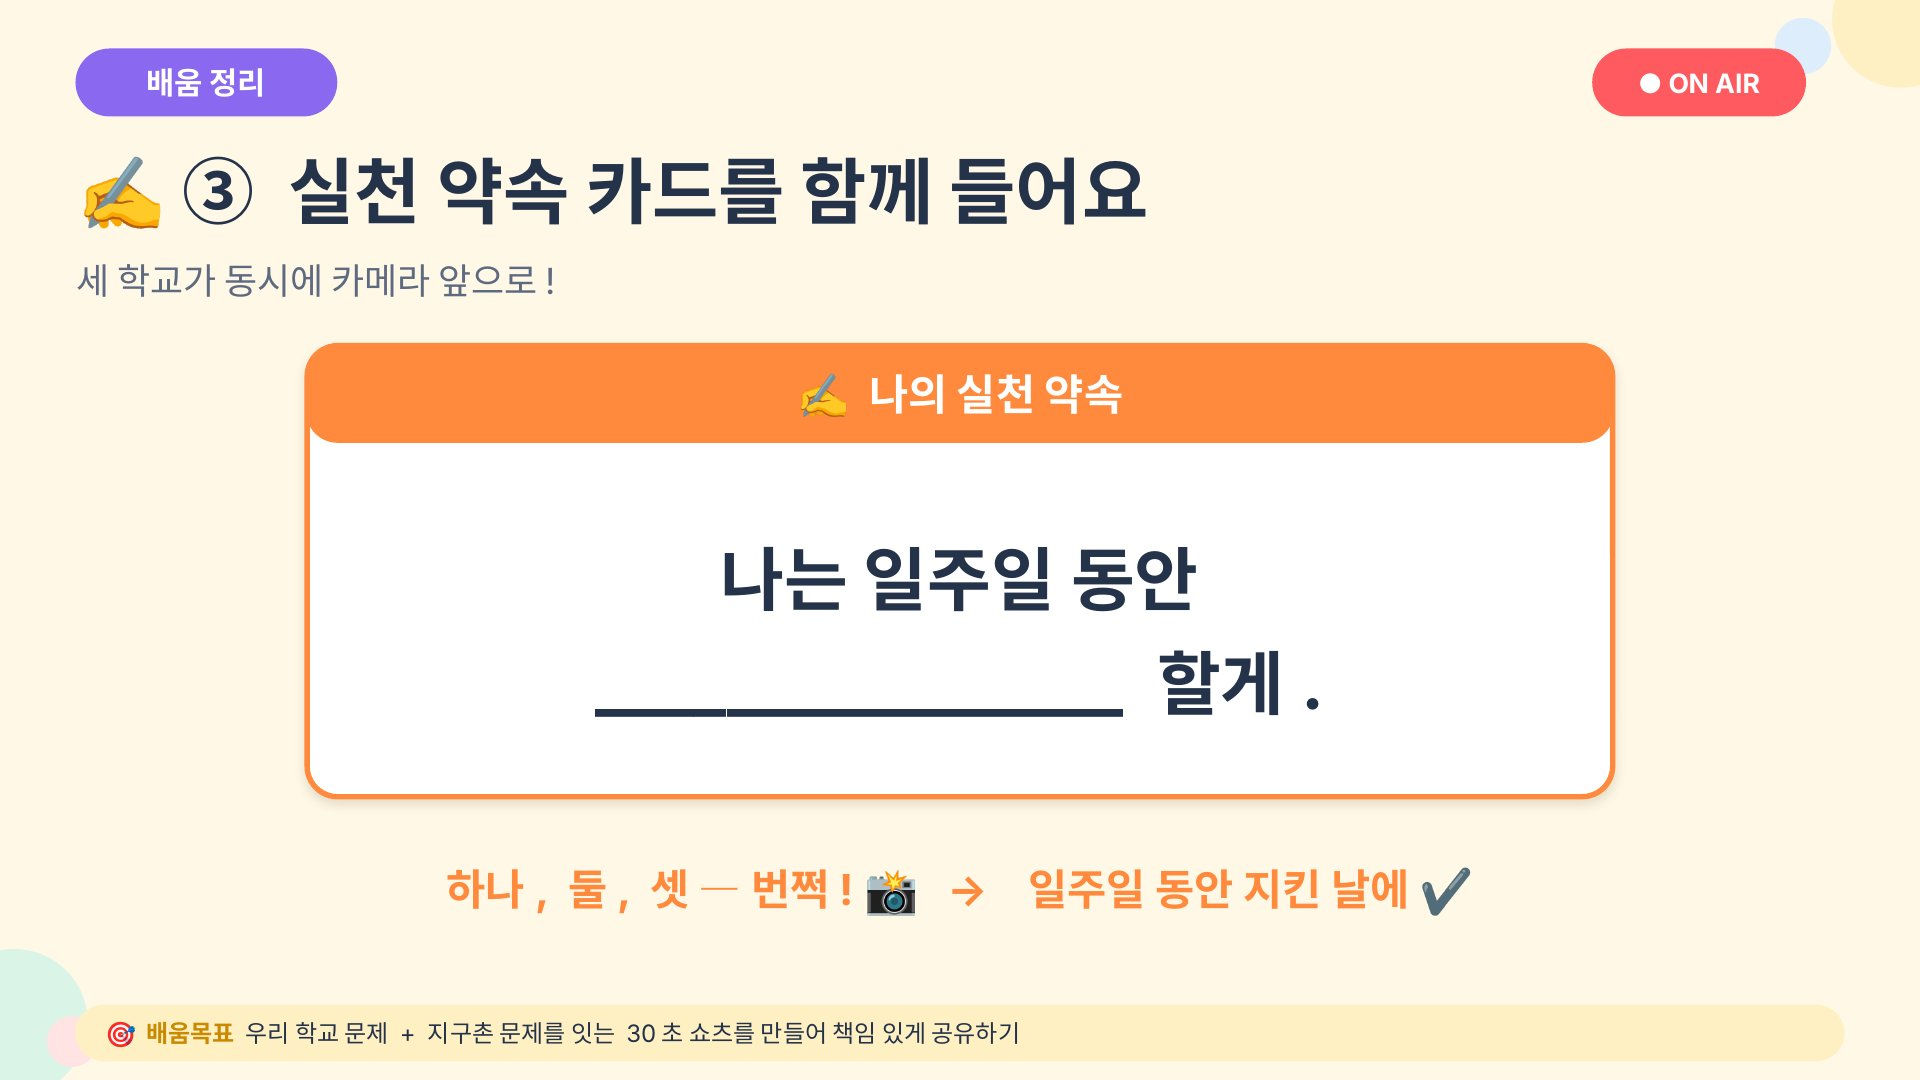
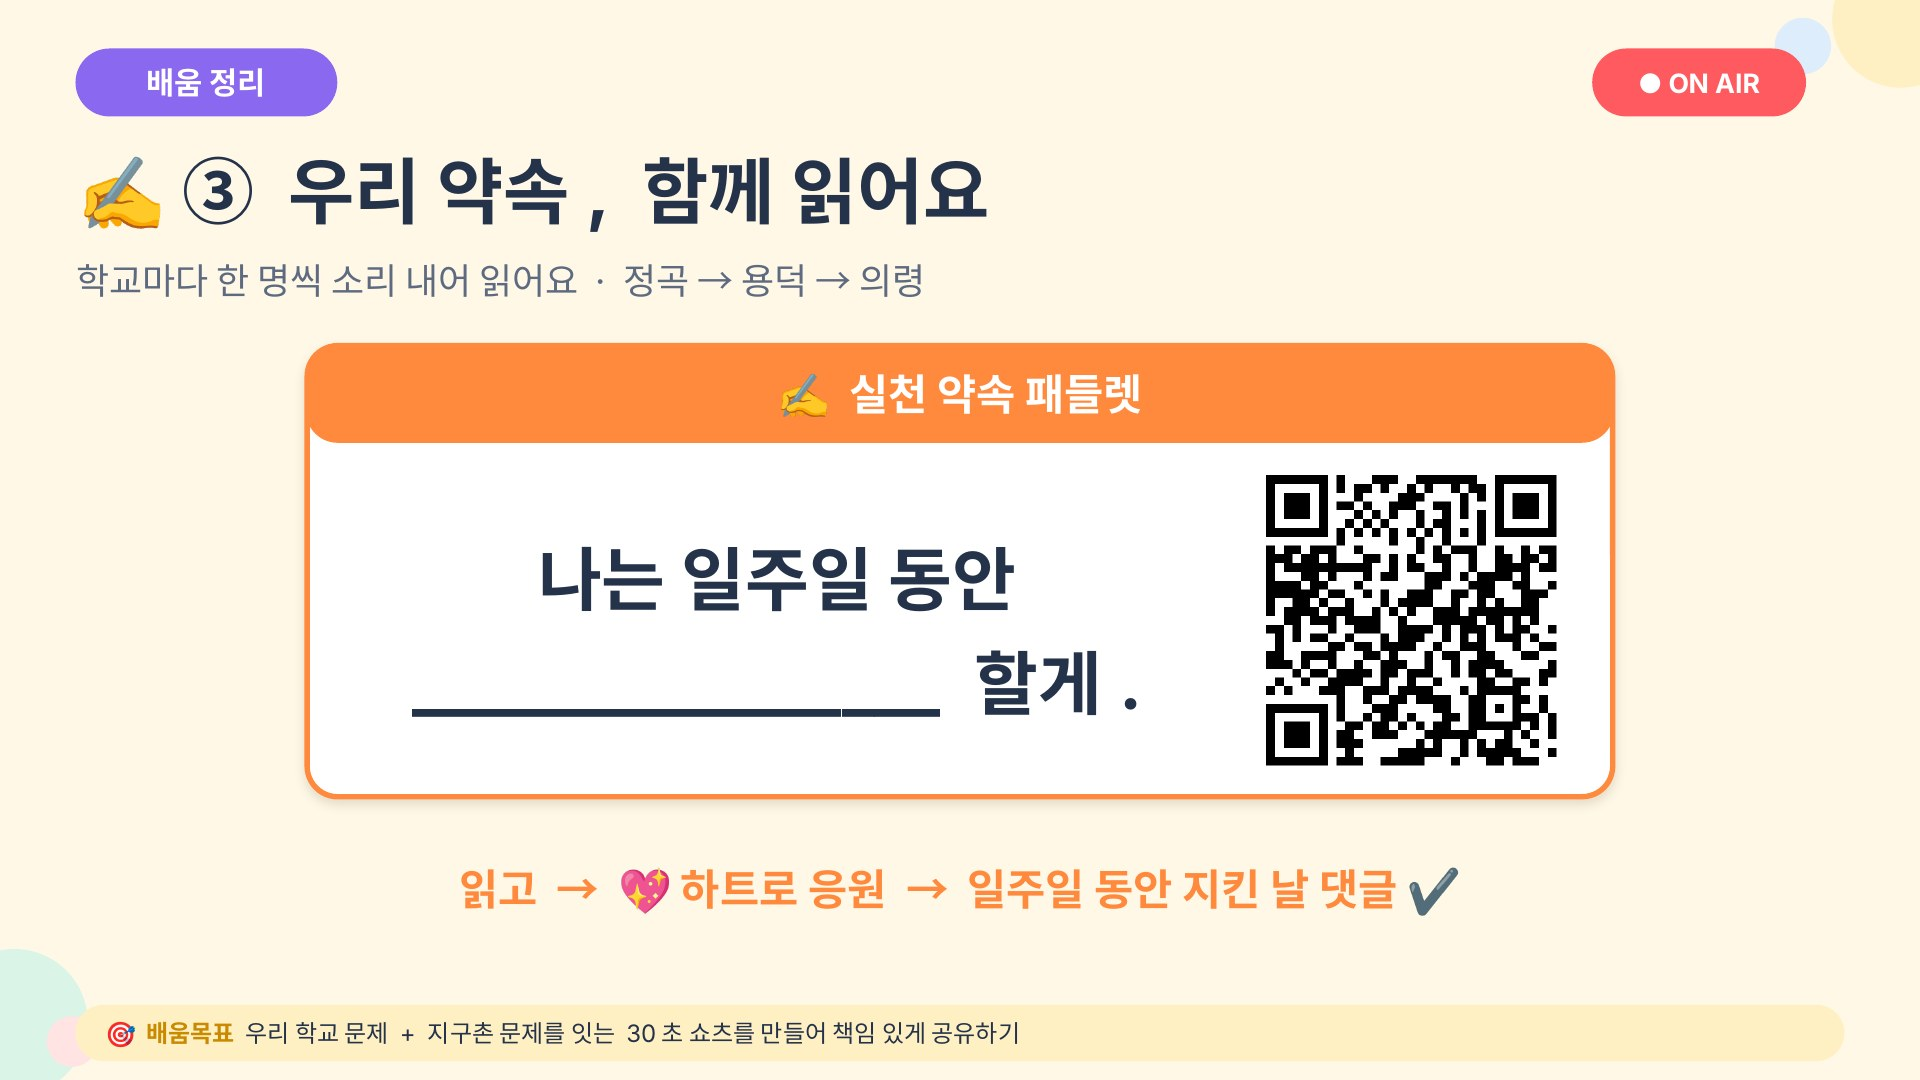
실천 약속을 종이 카드 대신 패들렛에: 팀 화면 버튼·알림 문구·슬라이드 6/17/24
Claude-Session: https://claude.ai/code/session_018Lxeety4LSYkDF5c1ZaQEU

diff --git a/js/team.js b/js/team.js
@@ -164,6 +164,7 @@ const VIEWS = {
         ${received.length ? `<h3>🔔 받은 알림</h3><div class="m-alerts">${received.slice(-3).reverse().map((a) => `<div>${esc(a.icon)} ${esc(a.msg)}</div>`).join('')}</div>` : ''}
       </section><section class="m-card"><h3>🎬 컷 진행</h3>
         ${L.cuts.map((c) => `<button class="check ${d.progress?.[c.id] ? 'on' : ''}" data-act="cut" data-k="${c.id}">${esc(c.name)}<small>${esc(c.sec)}</small></button>`).join('')}
+        <a class="btn promgo" href="${esc(L.promisePadlet)}" target="_blank" rel="noopener">${esc(L.promiseGo)}</a>
         <button class="check ${d.promise ? 'on' : ''}" data-act="promise">${esc(L.promiseCheck)}</button>
         ${me.canva ? `<a class="btn canvab" href="${esc(me.canva)}" target="_blank" rel="noopener">🎨 우리 팀 캔바 양식 열기</a>` : ''}
         ${videoButton(d, c)}
@@ -195,7 +196,7 @@ const VIEWS = {
       ${v >= L.gauge.goal ? `<p class="m-cele">${esc(v >= L.gauge.max ? L.gauge.celebrate100 : L.gauge.celebrate80)}</p>` : ''}`;
     const body = {
       views: `<h2>${esc(R.question)}</h2><div class="m-ans">${R.answers.map((a) => `<span>${esc(a)}</span>`).join('')}</div><p class="m-problem">${esc(R.sentence)}</p>`,
-      promise: `<h2>✍ ${esc(R.promise.title)}</h2><p class="m-wait">“${esc(R.promise.card)}”</p><p class="m-problem">${esc(R.promise.note)}</p>`,
+      promise: `<h2>✍ ${esc(R.promise.title)}</h2><p class="m-wait">“${esc(R.promise.card)}”</p><p class="m-problem">${esc(R.promise.note)}</p><a class="btn promgo" href="${esc(L.promisePadlet)}" target="_blank" rel="noopener">${esc(L.promiseGo)}</a>`,
       stars: `<h2>⭐ ${esc(R.stars.title)}</h2><p class="m-problem">${esc(R.stars.how)}</p><div class="m-ans col">${R.stars.items.map((a) => `<span>${esc(a)}</span>`).join('')}</div>`,
       gauge,
       next: `<h2>${esc(R.next.title)}</h2><p class="m-wait">${esc(R.next.text)}</p>`,

diff --git a/js/teacher.js b/js/teacher.js
@@ -372,7 +372,7 @@ function renderTeams() {
       <header><span class="no" style="background:${t.color}">${t.goal}</span><div><b>${esc(t.name)}</b><small>${esc(t.school)} · ${esc(t.goalName)}</small></div><span class="dot ${on ? 'on' : ''}" title="${on ? '접속 중' : '접속 안 됨'}"></span></header>
       <div class="hook">${d.hook ? `“${esc(d.hook)}”` : '<span class="muted">훅 고르는 중</span>'}</div>
       <div class="cutline">재료 ${prep}/${L.prepChecklist.length} · 컷 ${cuts}</div>
-      <div class="cutline">🖐 ${d.severity?.before ?? '–'} → ${d.severity?.after ?? '–'}${d.promise ? ' · ✍ 약속 카드' : ''}</div>
+      <div class="cutline">🖐 ${d.severity?.before ?? '–'} → ${d.severity?.after ?? '–'}${d.promise ? ' · ✍ 약속' : ''}</div>
       ${d.uploaded ? '<div class="up">📤 업로드 완료</div>' : ''}
       ${d.video ? `<div class="vrow ${videoOk(t.id) ? 'ok' : ''}"><span>🎬 ${videoOk(t.id) ? '승인됨' : '확인 필요'}</span><button class="btn sm ${videoOk(t.id) ? '' : 'cue'}" data-preview="${t.id}">${videoOk(t.id) ? '📤 받기 · 보기' : '▶ 보고 승인'}</button></div>` : ''}
       ${d.ng ? `<div class="vrow ${videoOk(t.id, 'ng') ? 'ok' : ''}"><span>${esc(L.video.ng.teacher)} ${videoOk(t.id, 'ng') ? '승인됨' : '확인 필요'}</span><button class="btn sm ${videoOk(t.id, 'ng') ? '' : 'cue'}" data-preview="${t.id}" data-kind="ng">▶ 보고 승인</button></div>` : ''}

diff --git a/css/app.css b/css/app.css
@@ -554,3 +554,4 @@ body.tv.slidemode .s-main { padding: 0; }
 
 /* 팀 화면: 캔바 양식 바로가기 */
 .btn.canvab { display: block; text-align: center; text-decoration: none; background: #7D2AE8; border-color: #7D2AE8; color: #fff; margin-bottom: 8px; }
+.btn.promgo { display: block; text-align: center; text-decoration: none; background: #FF8A3D; border-color: #FF8A3D; color: #2a1200; margin: 6px 0; }
